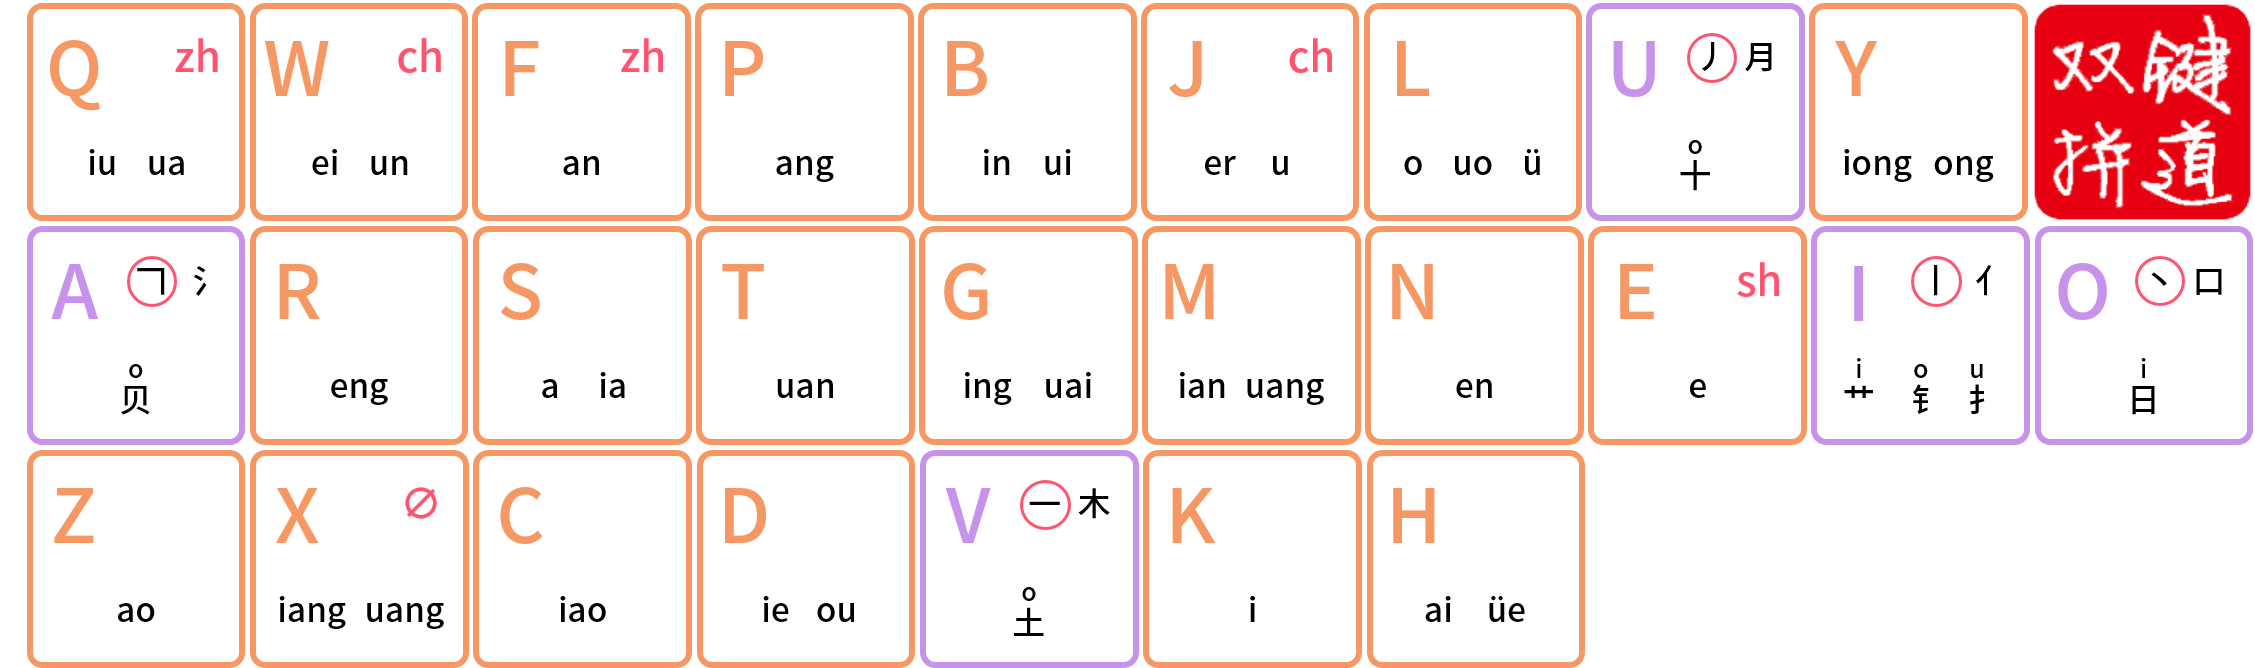
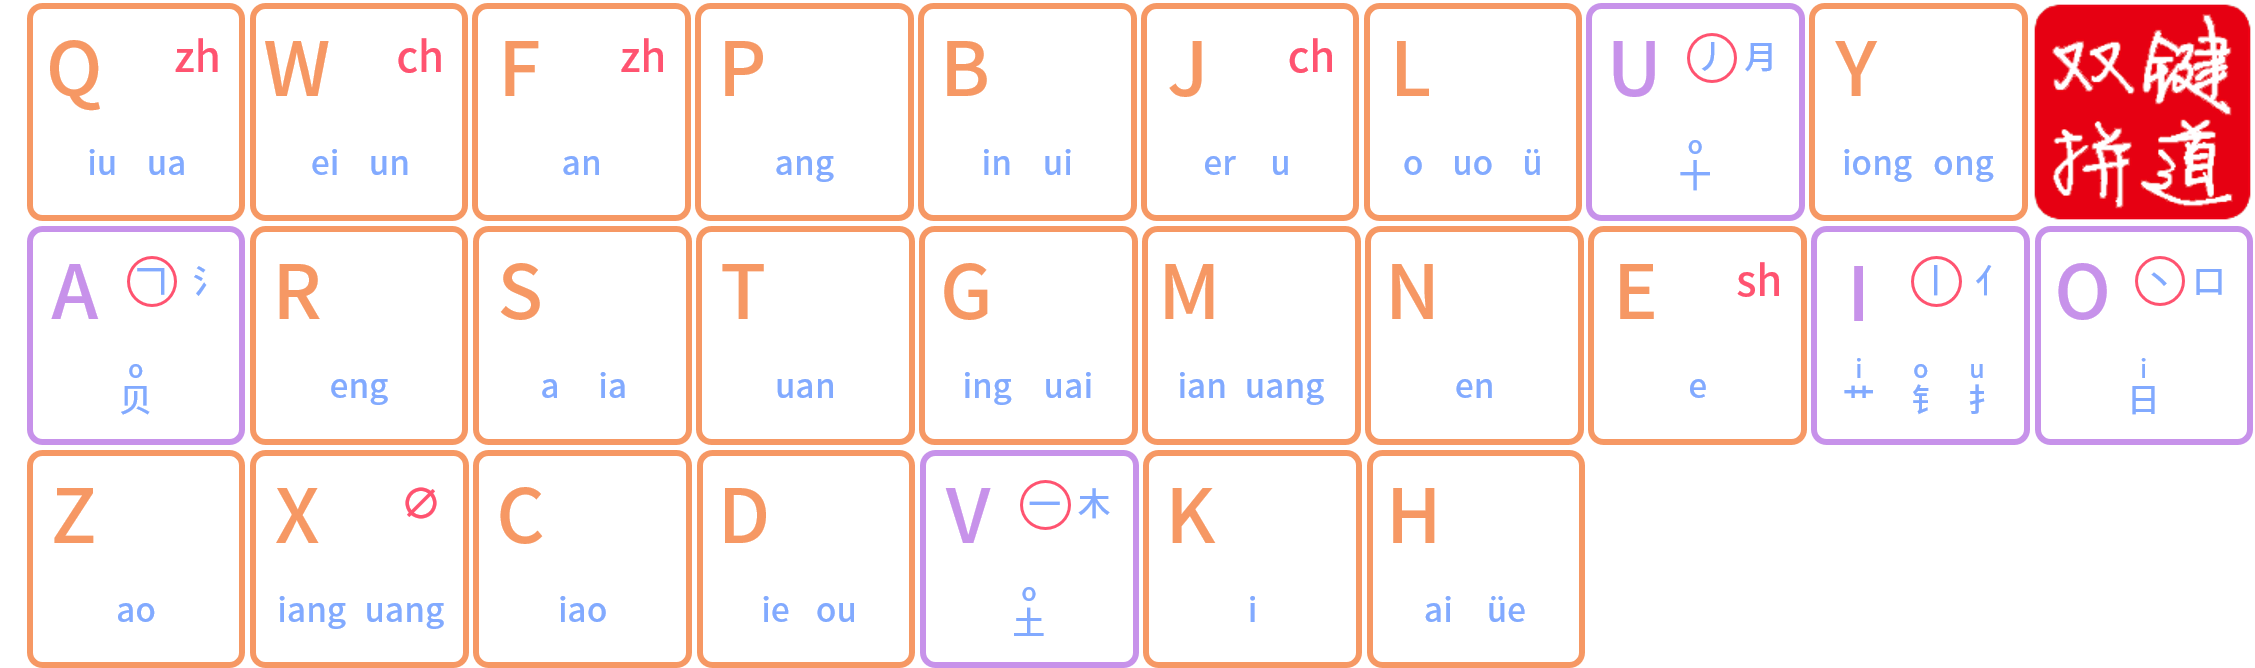
GitBook: [#168] Adapt dark mode

diff --git a/learn-xkjd/layouts.md b/learn-xkjd/layouts.md
@@ -16,7 +16,7 @@ description: 不同键盘布局下的键道键位
 
 键道作为一种音形码方案，顾名思义，其输入键位由音码和形码组成。键道的音码部分是双拼结构，比纯双拼稍难；形码部分是五笔画结构，比市面上绝大多数含形码的输入方案要简单得多。
 
-![](../.gitbook/assets/xkjd-rules.png)
+![](<../.gitbook/assets/XKJD Rules.png>)
 
 {% hint style="info" %}
 键道图谱没有固定的记忆口诀，但稍作观察即可发现每个键位的韵母十分形似，且韵母中至少有一个能与该键位的平舌声母组成常用的汉字发音。以此为提示多加练习，一般数日便可完成记忆
